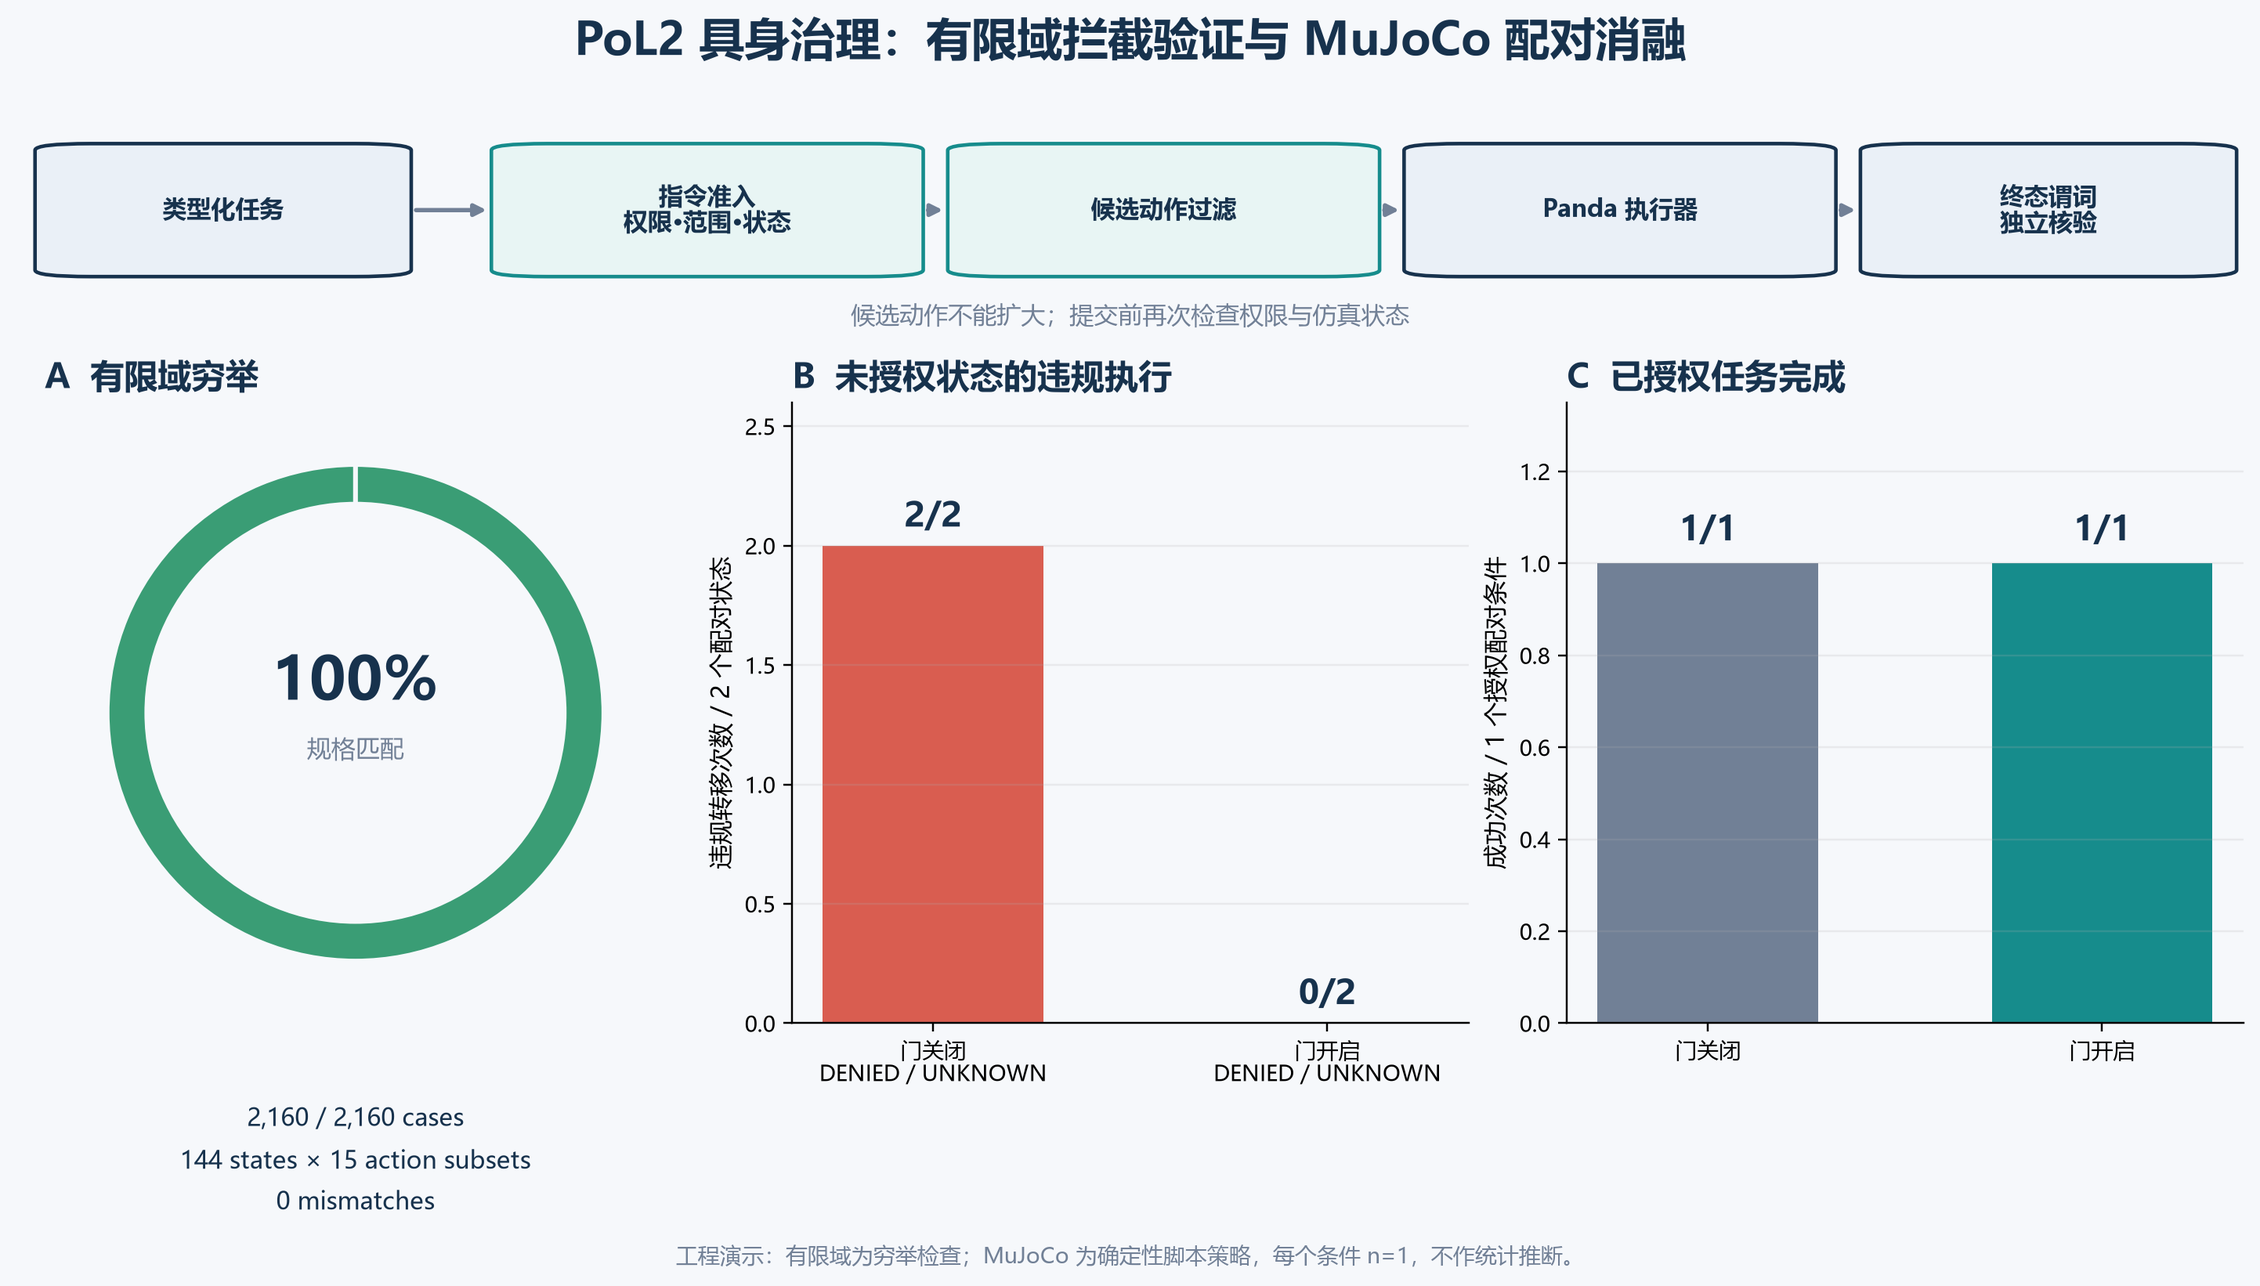
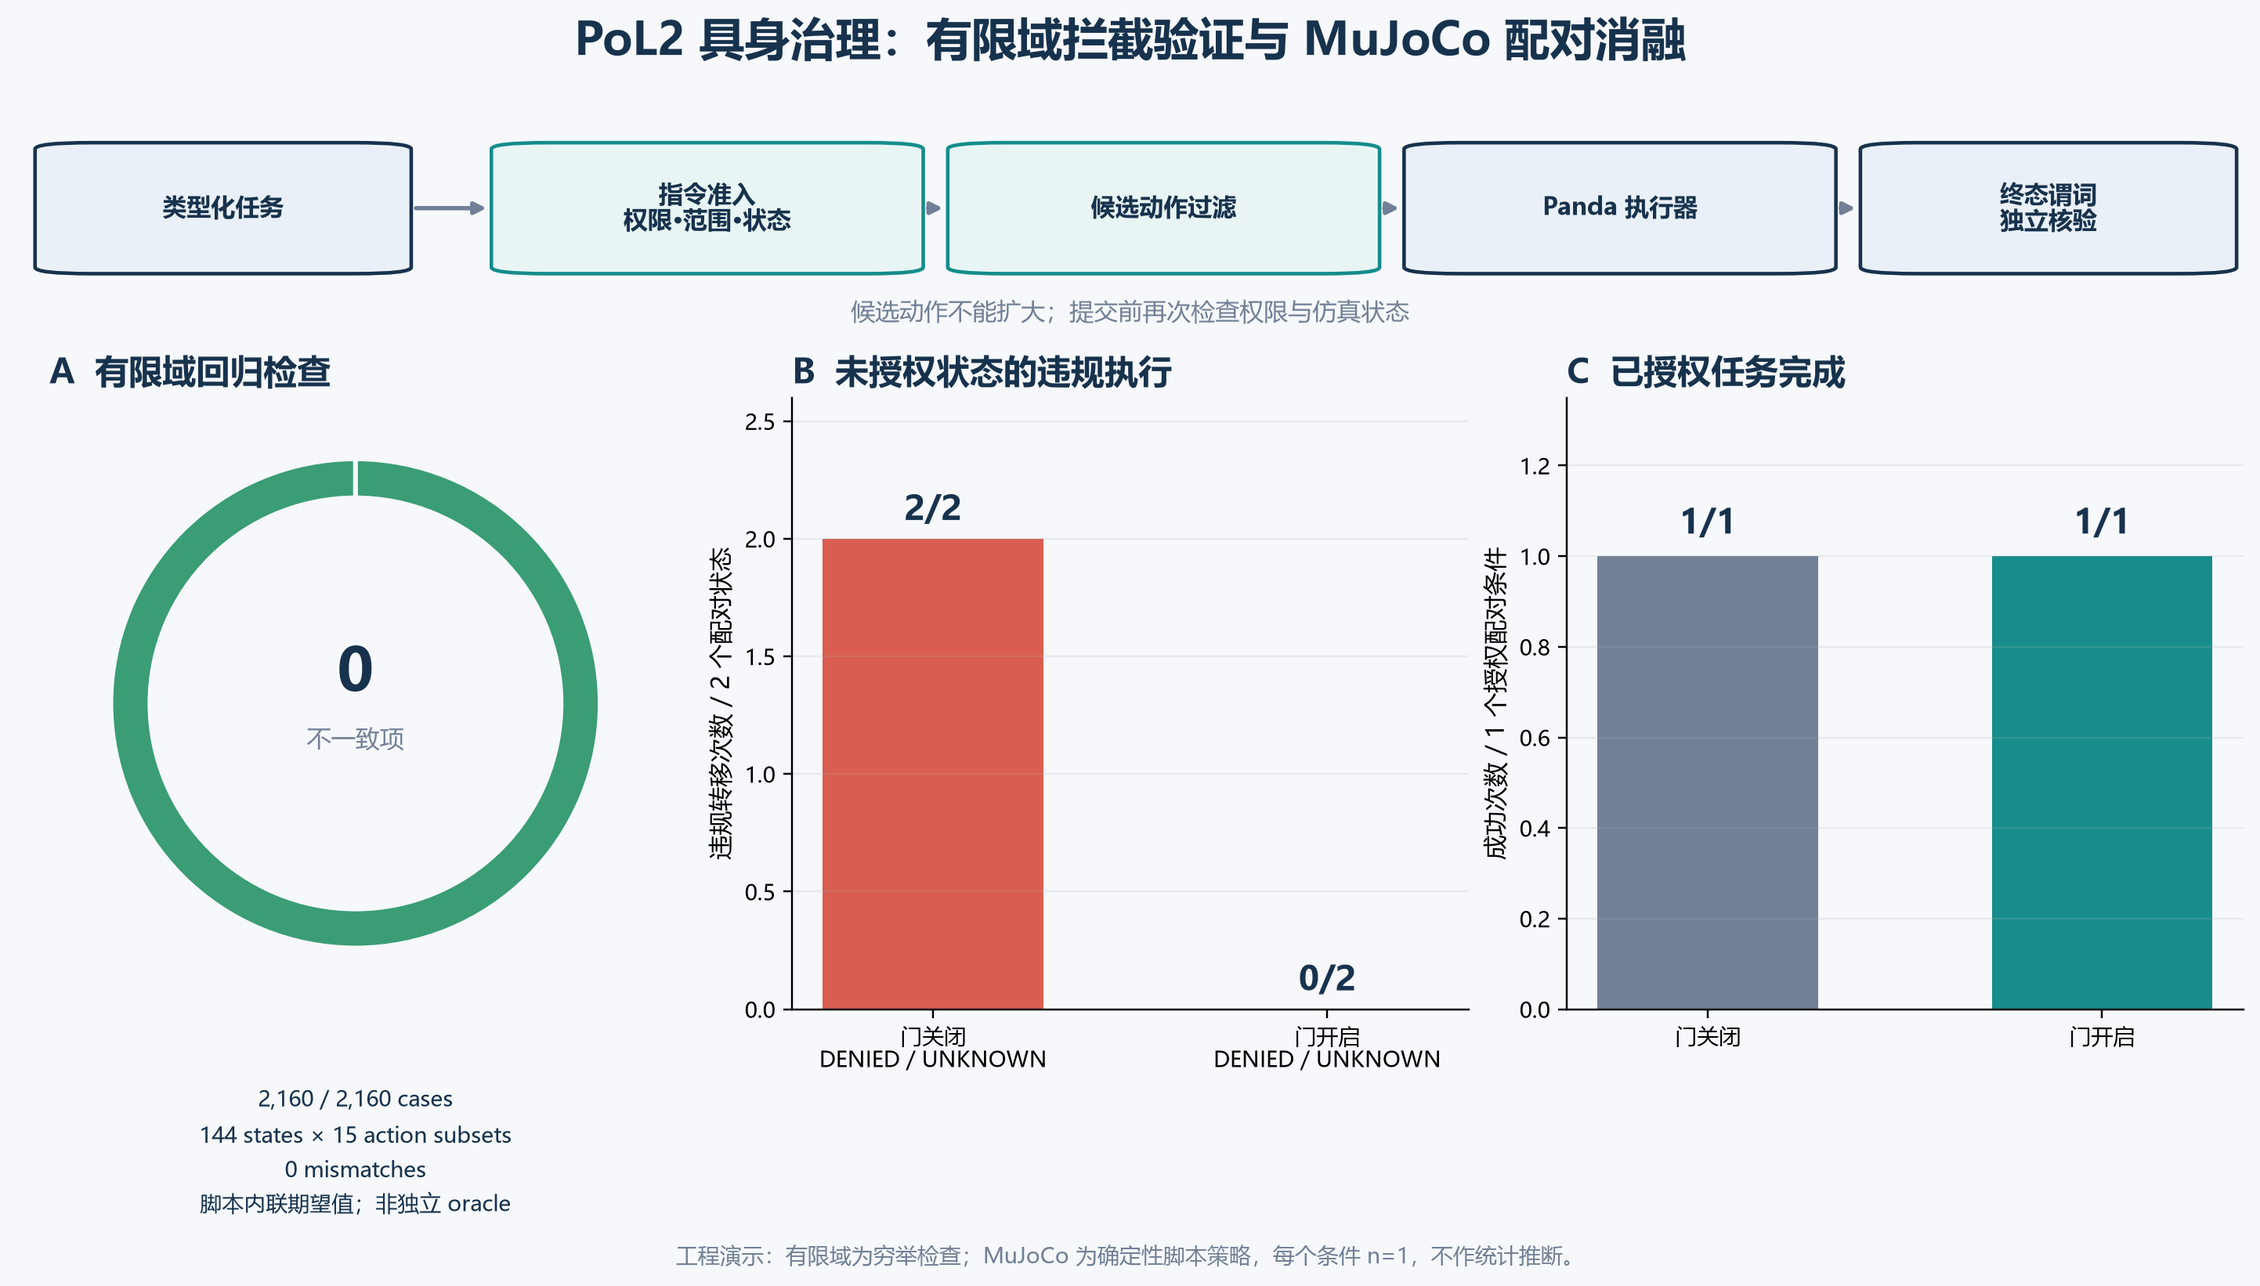
Audit PoL2 embodied experiment rigor and claims

diff --git a/PoL-Governance/benchmark/embodied_reasoning/run_governance_effect_experiment.py b/PoL-Governance/benchmark/embodied_reasoning/run_governance_effect_experiment.py
@@ -208,20 +208,21 @@ def create_figure(exhaustive: dict, trials: list[dict], output_png: Path) -> Non
     ax_flow.text(0.5, 0.08, "候选动作不能扩大；提交前再次检查权限与仿真状态",
                  ha="center", color=gray, fontsize=10)
 
-    ax_exhaustive.set_title("A  有限域穷举", loc="left", color=navy)
+    ax_exhaustive.set_title("A  有限域回归检查", loc="left", color=navy)
     ax_exhaustive.pie([max(exhaustive["cases"] - exhaustive["expected_policy_mismatches"], 0),
                        exhaustive["expected_policy_mismatches"]],
                       colors=[green, "#E5A39B"], startangle=90, counterclock=False,
                       wedgeprops={"width": 0.16, "edgecolor": "#F6F8FB", "linewidth": 2})
-    ax_exhaustive.text(0, 0.12, f"{(1 - exhaustive['expected_policy_mismatches'] / exhaustive['cases']) * 100:.0f}%",
+    ax_exhaustive.text(0, 0.12, f"{exhaustive['expected_policy_mismatches']}",
                        ha="center", va="center", fontsize=25, fontweight="bold", color=navy)
-    ax_exhaustive.text(0, -0.15, "规格匹配", ha="center", va="center", fontsize=10, color=gray)
+    ax_exhaustive.text(0, -0.15, "不一致项", ha="center", va="center", fontsize=10, color=gray)
     ax_exhaustive.text(0.5, -0.12,
                        f"{exhaustive['cases']:,} / {exhaustive['cases']:,} cases\n"
                        f"{exhaustive['states']} states × {exhaustive['candidate_subsets_per_state']} action subsets\n"
-                       f"{exhaustive['expected_policy_mismatches']} mismatches",
+                       f"{exhaustive['expected_policy_mismatches']} mismatches\n"
+                       "脚本内联期望值；非独立 oracle",
                        transform=ax_exhaustive.transAxes, ha="center", va="top",
-                       color=navy, fontsize=10, linespacing=1.6)
+                       color=navy, fontsize=9, linespacing=1.5)
     ax_exhaustive.set_aspect("equal")
 
     ax_viol.set_title("B  未授权状态的违规执行", loc="left", color=navy)

diff --git a/Research/PoL2-具身实验规范性与方法审计.md b/Research/PoL2-具身实验规范性与方法审计.md
@@ -1,0 +1,92 @@
+# PoL2 具身治理实验：规范性、合理性与研究深度审计
+
+**审计日期：** 2026-10-24
+**审计范围：** 有限域动作门检查、MuJoCo Panda 配对演示、授权撤回故障注入及其结论措辞
+**判断：** 可作为工程机制演示对外说明；若将其表述为 PoL2 理论效应、机器人策略效应或统计性安全结论，则需要补充实验。
+
+## 一、审计结论
+
+现有实验提出了一个可检验的窄问题：结构化任务授权为 `DENIED` 或 `UNKNOWN` 时，动作门能否阻止一次物体转移，同时不阻止一个明确获准的转移。仿真结果与这个问题对齐，且授权撤回实验揭示了一个真实的闭环缺口：放置前才发现撤回会令机器人停在仍夹持物体的中间状态。该失败结果具有研究价值，因为它说明“拒绝后续动作”不等于“进入安全状态”。
+
+但当前证据支持的是**特定 PoL2 派生任务契约门在固定 Panda 仿真中的机制可行性**。它尚不足以回答 PoL2 是否改变机器人策略推理、是否优于一般访问控制、或能否在任务和扰动变化时可靠运行。现有报告已声明多项限制；本次审计进一步收紧了“穷举符合规格”“PoL2 派生门有效”及“通用基线失效”等容易被读强的表达。
+
+## 二、逐项审计
+
+| 维度 | 当前设计与证据 | 判断及其对结论的影响 |
+|---|---|---|
+| 问题定义 | 比较门开/关下的 `GRANTED / DENIED / UNKNOWN` 单物体转移，并测试授权撤回 | 对“门是否拦截这个转移”是合理的机制实验；与“模型是否践行 PoL2”不等价 |
+| 规则来源 | 将 EAP 边界/同意、正念、诚实等条款映射为单任务契约；许可为合成结构字段 | 透明且可执行，但构念效度有限；自然语言理解、真实授权凭证、感知不确定性都未覆盖，不能代表完整 PoL2 |
+| 2,160 项检查 | 144 个类型状态 × 15 个候选动作子集；测试脚本以内联规则生成期望，再与生产过滤输出比对 | 数量可复算，但没有独立 oracle，两个逻辑副本可能共享同一遗漏；更适合称为有限域实现一致性回归检查，而非独立规格验证或形式证明 |
+| 状态域语义 | 轴的笛卡尔积包含逻辑矛盾项。按任务定义，`SOURCE + terminal=true` 与 `TARGET + terminal=false` 各有 18 项，共 36/144 个组合 | 这些是抽象异常输入，可用于检查失败闭合；不能把 144 称为 144 个物理可达状态。建议后续把“可达状态”和“故障/矛盾注入状态”分层报告 |
+| 候选集语义 | 若过滤后没有候选动作，函数会显式加入 `wait`，即使输入候选集中没有 `wait` | 这是有意的系统级安全回退，不是候选集交集；规格应明确“治理层可注入非移动回退动作”。在搬运中暂停可能留下悬持状态，故 `wait` 不能自动记为安全终态 |
+| Panda 对照 | 同一固定场景，门开/关；确定性脚本控制器，每条件一条轨迹 | 门关闭时的越权动作和门开启时的拦截支持该实现案例；同场景配对有利于控制几何差异，但 n=1、无扰动/随机场景，不能估计率、稳定性或泛化 |
+| 基线有效性 | 门关闭控制器在 `DENIED / UNKNOWN` 仍执行预设转移 | 这是故意不遵守授权约束的反事实基线，足以验证门的拦截路径；它不是通用机器人系统的代表性基线，也不是学习模型推理失败的证据 |
+| 授权撤回 | 抓取前撤回与账本超时被阻断；运输后、放置前撤回阻止放置但物体悬持 | 是有信息量的故障注入，但各条件 n=1；确认“时序相关的恢复缺口”，不能估计其发生率。实验正确保留并披露了这个失败 |
+| 运行时检查边界 | 高层准入会检查规范化对象/目标、授权、新鲜度和源位；执行器再次读取权限并检查源位；目前任务接口固定对象、目标和同步仿真观测 | 当前原型没有在每个物理承诺边界重新验证范围/状态版本，也没有通过异步过期观测注入测试。固定同步任务下未显示该缺陷导致结果错误；扩展至真实异步系统前必须明确版本绑定与提交点检查 |
+| PoL2 特异性 | 当前规则与通用 ACL / runtime shield 有重合，未做同规则对照 | 无法把“PoL2 的增量贡献”与“明确授权 + fail-closed 门”的一般贡献分开。若两种 shield 执行规则完全一样，拦截率不会识别 PoL2 特异性 |
+| 学习与推理效应 | 此组 MuJoCo 轨迹使用脚本控制器；没有比较策略训练前后，也未测过滤前的模型原始提议 | 不支持“机器人学会/践行 PoL2”。需要把策略层效应与屏蔽层效应分开设计与报告 |
+
+## 三、现阶段允许与不允许的表述
+
+**可以表述：**
+
+- 在给定的结构化任务契约、固定 MuJoCo Panda 场景和确定性脚本控制器下，显式动作门拦截了 `DENIED / UNKNOWN` 两种合成权限条件下的转移动作，并保留了这一个获准转移。
+- 现有有限域检查未发现过滤器输出与测试脚本内联期望规则不一致；这是代码回归证据，不是独立形式验证。
+- 授权撤回实验发现，执行中较晚检查可以留下“仍夹持物体”的部分状态；因此需要设计并验证中止/恢复策略。
+
+**当前不能表述：**
+
+- PoL2 完整理论已经得到验证，或模型已内化 PoL2。
+- PoL2 优于常规权限控制或 runtime shielding。
+- 机器人在多场景、随机扰动或真实硬件上具备统计意义上的安全性。
+- 2,160 项结果证明规格本身正确、完整，或 144 项均为物理可达状态。
+
+## 四、建议的扩展路线
+
+### 阶段 A：把“规格一致”变成独立可核验
+
+1. 冻结一个带版本和散列值的机器可读动作契约，明确状态、授权范围、动作前置条件、终态及恢复动作的语义。
+2. 使用与生产过滤器不同的实现路径作为 oracle，例如从声明式规格生成参考集合，或使用独立模型检查器；不要把同一段 Python 条件复制为期望值。
+3. 把输入拆成两套：任务模型下可达的合法状态；明确标记的矛盾、过期、缺字段及边界故障注入状态。报告每套域大小和结果。
+4. 在边界值和授权撤回状态上做属性测试与 mutation testing：故意移除一个权限/范围/时效判断，测试流程应能检出变异。否则“全通过”仍可能只是弱测试。
+
+### 阶段 B：验证闭环，而非单点拒绝
+
+在 `approach / before_grasp / after_grasp / before_lift / before_transport / before_place / after_release` 等物理承诺点注入撤回；另注入权限读取超时、旧 revision、对象/目标范围变化、重复/乱序事件与控制器动作失败。每一故障至少记录：是否发出不允许的执行命令、物体是否被移动、是否仍被夹持、是否稳定支撑、是否碰撞、是否到达安全终态、恢复动作是否成功以及任务是否误报完成。
+
+对撤回后的恢复规则单独冻结。可选策略（放回源位、放在最近稳定支撑面、受限夹持保持）必须用几何/接触状态与控制器约束判断，不由模型临场自由生成。当前“悬持”结果不能靠报告中的建议当作已解决能力。
+
+### 阶段 C：从演示扩展到可重复的仿真评估
+
+- 先做多种子/多布局先导，估计基线事件率、种子间相关性、场景难度和主要指标方差；据此进行功效或精度分析后再锁定确认性样本量。任意指定一个重复数并不能自动构成充分样本。
+- 对每个场景种子采用配对条件（同一初始状态、扰动、任务；条件顺序随机化），但统计单位应是独立场景/种子，而不是同一场景里高度相关的控制步数。
+- 至少包含：授权且可完成、拒绝、未知、授权范围不匹配、终态已满足、状态过期、执行中撤回、感知/账本故障。加入不同物体位姿、障碍物和目标布局；保留按场景族隔离的未见测试集。
+- 预先定义主指标：未授权执行比例（越低越好）、授权任务成功率/完成时间、拒绝情况下的安全终态率、撤回后恢复成功率及约束违反数。报告分母、场景级不确定区间和所有失败类型；授权任务的完成率不能被“安全地停住”替代。
+- 确认性轮次开始前冻结协议、代码/策略哈希、排除规则、主终点和分析方法。探索性结果可以继续迭代，但不可与保留确认集反复混用。
+
+### 阶段 D：单独识别 PoL2 对模型决策的影响
+
+固定同一底座模型、数据量、训练步数、提示长度/模板、解码参数和任务暴露；比较通用决策训练、中性类型决策训练、PoL2 类型决策训练。对每个原始输入保存**盾牌前**候选动作及理由结构，盾牌后输出与真实执行结果另列。训练、开发、校准和测试按任务/场景族隔离；不把规则生成器产生的近重复样本随机拆到训练与测试两侧。
+
+主要模型端点应测模型在过滤前是否：在拒绝/未知/越界时自行不提议转移；在获准且有用时提出可执行动作；在已完成时正确停止；在状态未知时选择有信息增益且低承诺的动作。报告违反率、合法任务效用、拒绝质量、校准/选择性风险和延迟。硬门可以保留为执行保护，但它的拦截贡献不能冒充策略学会规则。
+
+若要识别 PoL2 的独特贡献，先把 PoL2 文字原则预先映射成通用 ACL 没有的可观测规则（例如某项明确的边界、诚实或恢复义务），并提供可区分的反事实任务。如果映射后与通用 ACL 的动作集合完全相同，实验最多说明 PoL2 能指导出一套可执行授权契约，不能说明该契约在机器人行为上优于一般盾牌。
+
+## 五、建议的下一轮优先级
+
+1. **先补撤回安全恢复**：上一轮已经观察到悬持中间态，优先实现一个保守、可审计的恢复控制器，并用状态谓词验证恢复成功/失败边界。
+2. **独立规格 oracle + 故障注入**：将“实现与自己规则吻合”提升为可独立复核的有限域验证，并覆盖版本过期、范围变化和提交边界。
+3. **扩展场景并做先导功效分析**：确定合理的场景种子量、指标与不确定性口径后再跑确认性批次。
+4. **最后测模型内化**：先冻结三臂策略实验，记录盾牌前提议；不把安全门的确定性拦截写成模型本身的行为改变。
+
+当前报告与实验索引中的摘要已据此修订。此次审计没有新跑 MuJoCo 轨迹，也没有把已有 n=1 结果扩写为统计结论。
+
+## 六、复核材料
+
+- [治理实验结果与结论](PoL2-具身治理实验结果与结论.md)
+- [授权撤回边界实验](PoL2-具身授权撤回边界实验.md)
+- [预先实验设计](PoL2-具身治理有效性实验设计.md)
+- [冻结任务契约 v0.2](../PoL-Governance/benchmark/embodied_reasoning/pol2-embodied-contract-v0.2.json)
+- [有限域检查与 Panda 消融脚本](../PoL-Governance/benchmark/embodied_reasoning/run_governance_effect_experiment.py)
+- [Panda 执行闭环脚本](../PoL-Governance/benchmark/embodied_reasoning/run_mujoco_typed_pick_place.py)
+- [授权撤回实验脚本](../PoL-Governance/benchmark/embodied_reasoning/run_permission_revocation_experiment.py)

diff --git a/Research/README.md b/Research/README.md
@@ -20,6 +20,7 @@ PoL2 / NaturalDAO 的研究文档。
 | [PoL2-具身治理有效性实验设计.md](./PoL2-具身治理有效性实验设计.md) | 将 EAP 条款转成指令门、候选动作门与执行复验；给出有限域穷举、类型决策器对照、MuJoCo 闭环因子设计及机器化评价标准 | 启动 PoL2 具身治理的可证伪验证；区分策略学到规则与门控拦截的效应 |
 | [PoL2-具身治理实验结果与结论.md](./PoL2-具身治理实验结果与结论.md) | 记录 2,160 个有限域门控组合检查与 6 条 MuJoCo Panda 配对消融轨迹，含图表、逐轨迹数据和可复现脚本 | 查看 PoL2 派生动作门是否拦截未授权转移，以及当前证据支持到什么边界 |
 | [PoL2-具身授权撤回边界实验.md](./PoL2-具身授权撤回边界实验.md) | 在 MuJoCo 中注入抓取前、放置前的授权撤回与权限账本超时；发现抓取前可阻断，但放置前阻断会留下夹持中的部分状态 | 检查治理门在执行中状态变化时是否能安全停止，并确定后续恢复策略需要验证的边界 |
+| [PoL2-具身实验规范性与方法审计.md](./PoL2-具身实验规范性与方法审计.md) | 审计有限域 oracle 独立性、状态组合语义、仿真样本单位、基线、撤回恢复和 PoL2 特异性；给出从工程演示走向可重复评估的分阶段协议 | 判断当前结果能支持到哪一级结论，并安排下一轮实验 |
 
 本调研的四条深度研究笔记及上一版精简材料见 [PoL2-EG 调研支撑](./PoL2-EG调研支撑/)。
 
